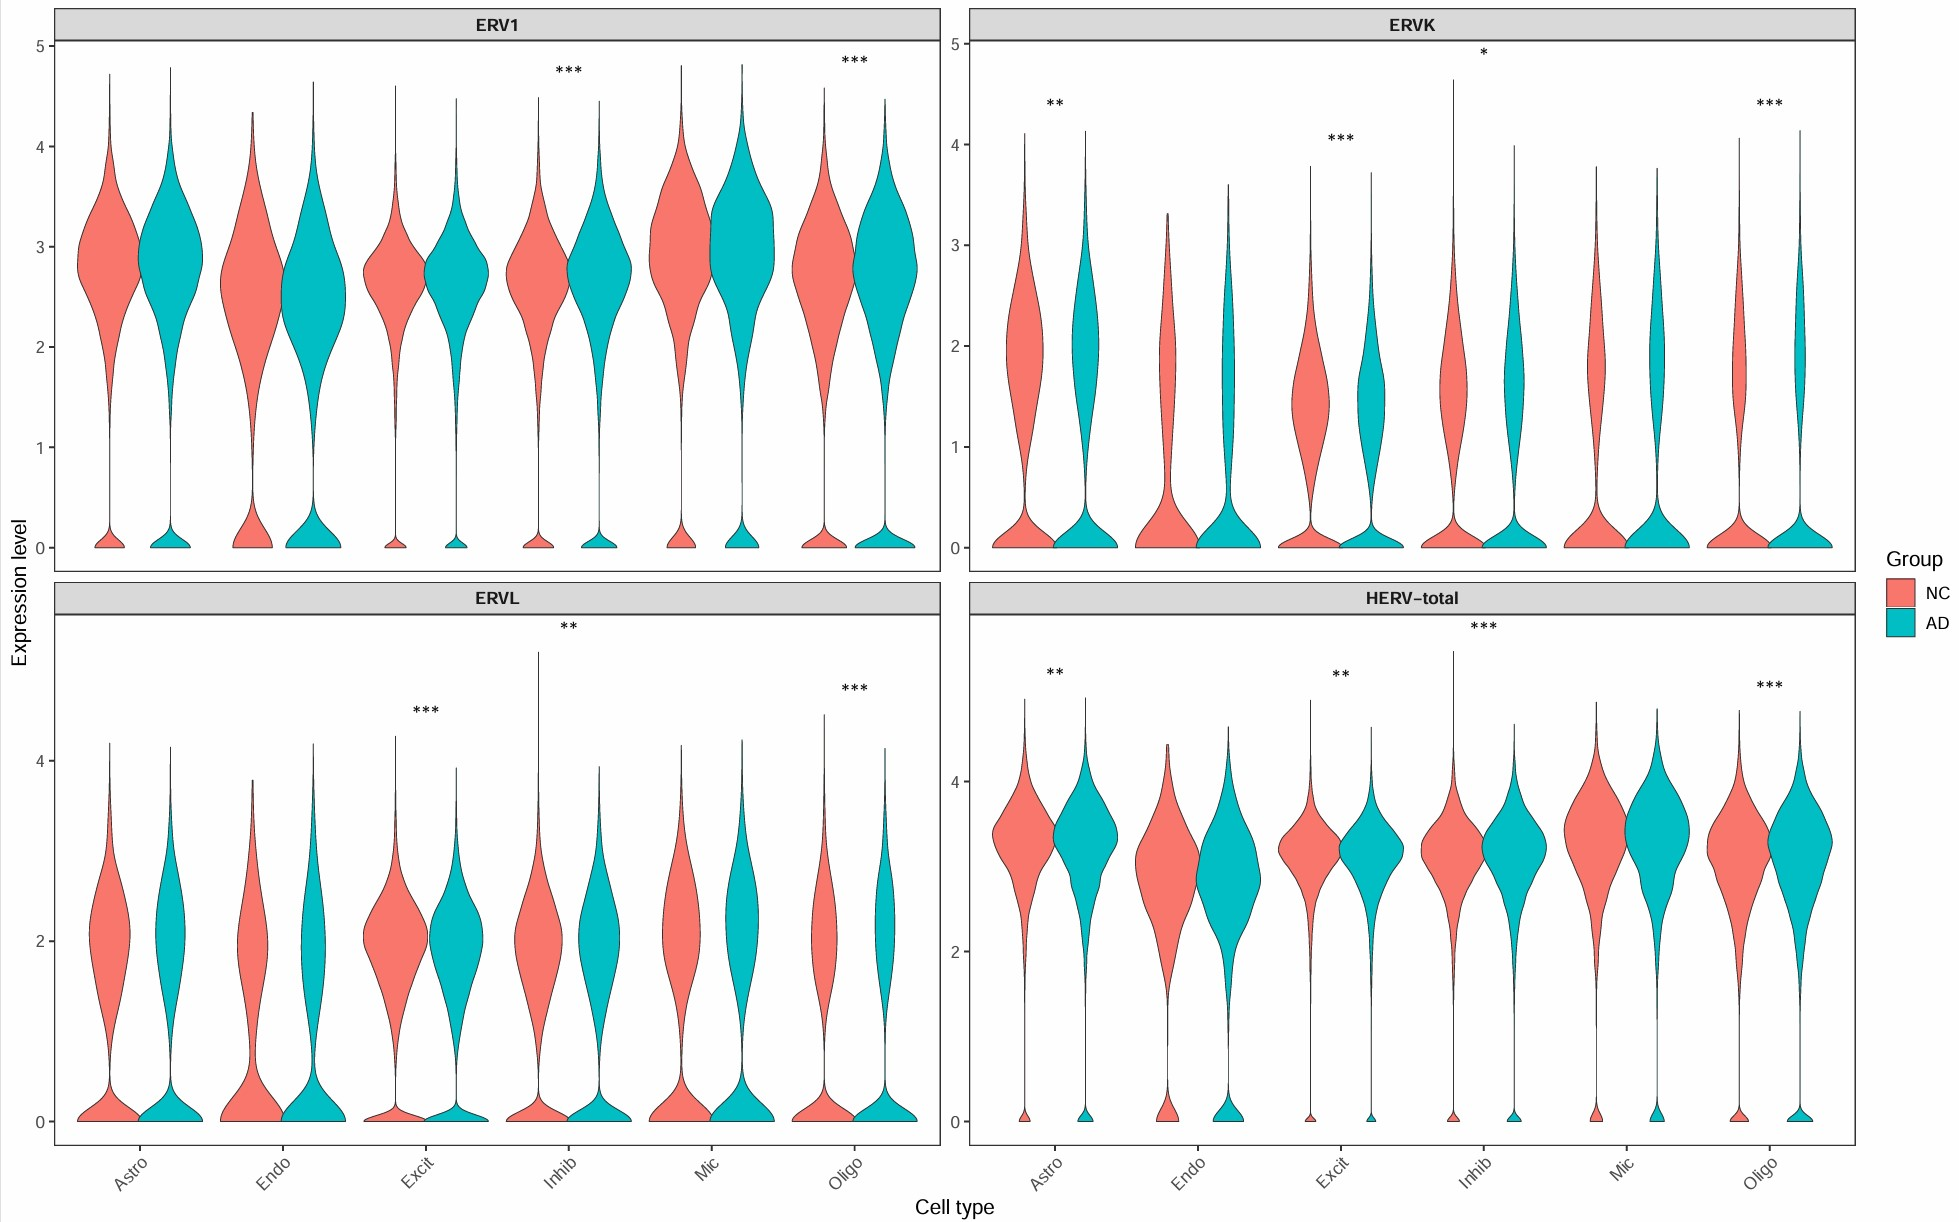
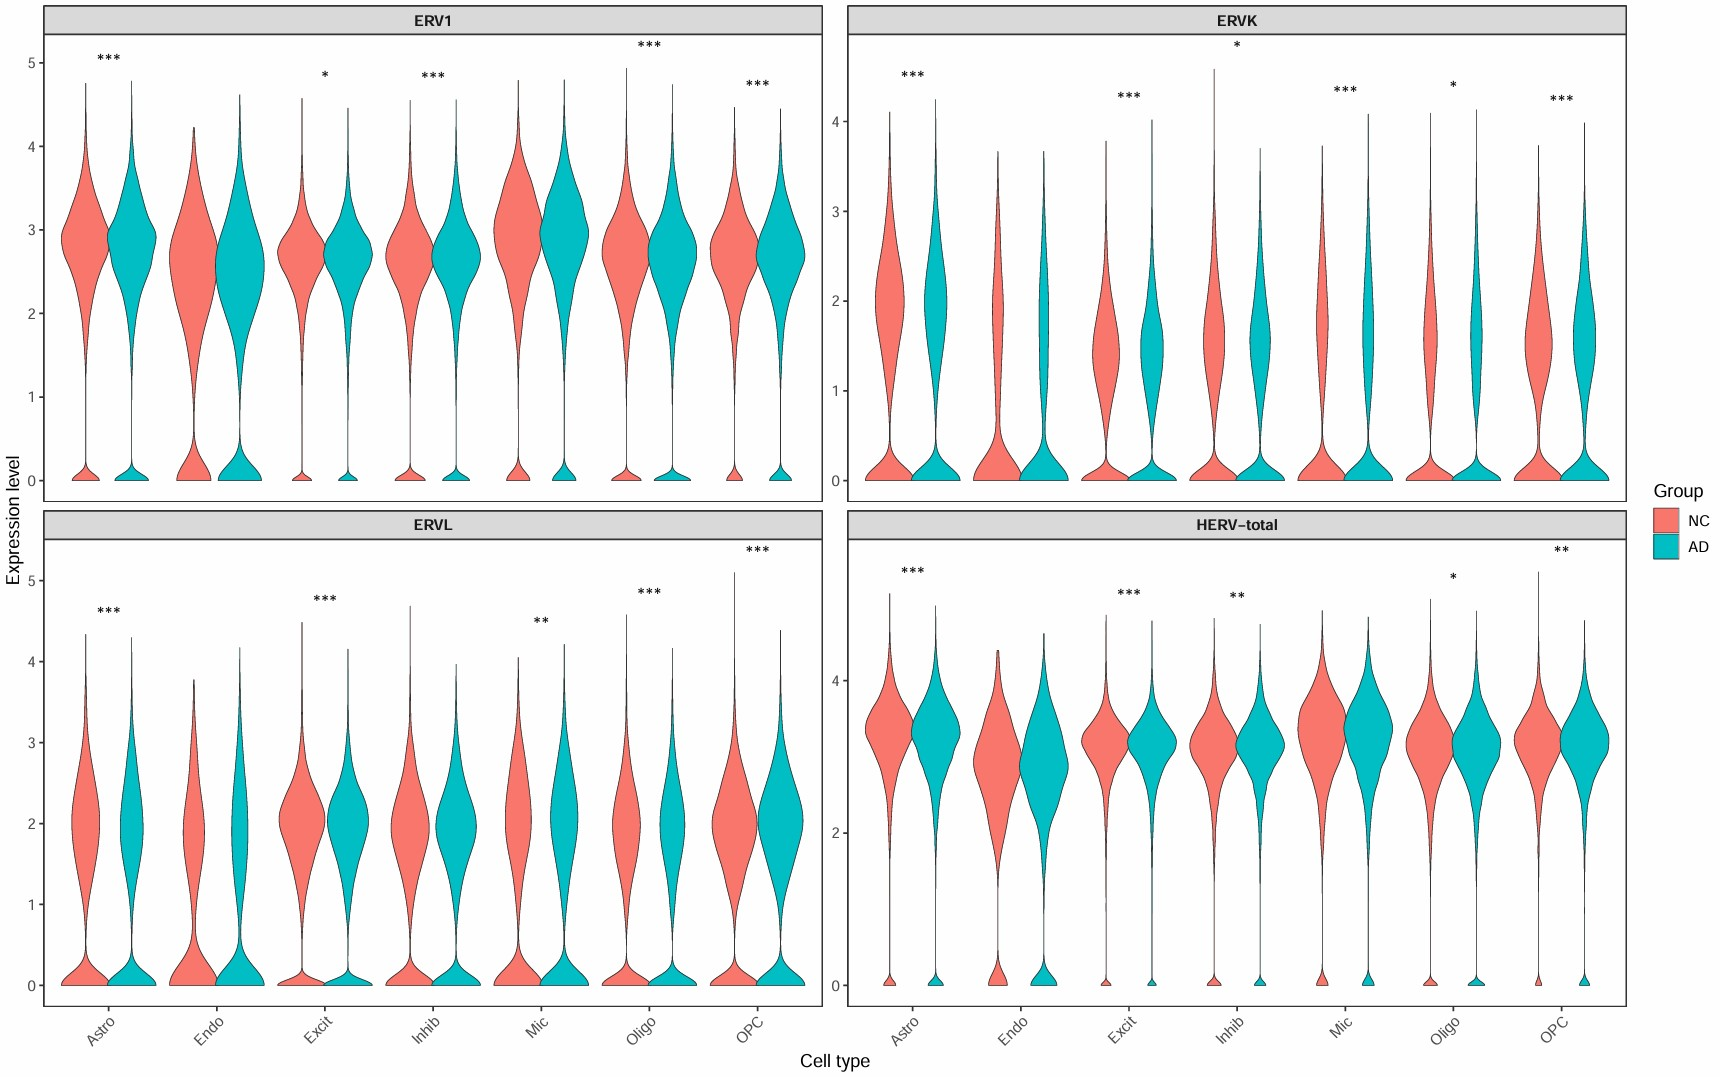
0323

Changed region(s): [[0.0, 0.0, 1.0, 0.9805], [0.4622, 0.9805, 0.5238, 1.0], [0.0, 0.5822, 0.0308, 0.6435]]

diff --git a/_posts/2022-11-29-毕设代码.md b/_posts/2022-11-29-毕设代码.md
@@ -1320,7 +1320,7 @@ meta <- seu@meta.data %>%
   transmute(
     cell = rownames(seu@meta.data),
     group = factor(group, levels = c("NC","AD")),
-    celltype = factor(celltype, levels = c("Astro","Endo","Excit","Inhib","Mic","Oligo"))
+    celltype = factor(celltype, levels = c("Astro","Endo","Excit","Inhib","Mic","Oligo","OPC"))
   )
 df_expr <- as.data.frame(as.matrix(t(mat4))) %>%
   tibble::rownames_to_column("cell") %>%
@@ -1348,7 +1348,7 @@ res_stars <- res_by_ct %>%
 ymax_df <- df_expr %>%
   group_by(feature, celltype) %>%
   summarise(ymax = max(expr, na.rm = TRUE), .groups = "drop")
-anno_df <- res_stars %>%
+anno_df <- res_stars %>%  # 注：此处若报错，可能需要更换更高版本R
   inner_join(ymax_df, by = c("feature","celltype")) %>%
   mutate(y = ymax + 0.15)
 cols <- c("NC" = "#F8766D", "AD" = "#00BFC4")
@@ -1414,7 +1414,7 @@ run_de_one_celltype <- function(seu, ct) {
     relocate(celltype, n_NC, n_AD, subfamily)
   res
 }
-celltypes_to_run <- c("Excit", "Oligo", "Astro", "Inhib", "All")
+celltypes_to_run <- c("Excit", "Oligo", "Astro", "Inhib", "Endo", "Mic", "OPC", "All")
 res_list <- lapply(celltypes_to_run, function(ct) run_de_one_celltype(seu, ct))
 res_list <- Filter(Negate(is.null), res_list)
 res_subfamily <- bind_rows(res_list)
@@ -1446,7 +1446,7 @@ get_subCelltype <- function(ct, pc.use=1:30, harmony=F, resolution=0.3){
   if(harmony){
     sub <- RunHarmony(
       object = sub,
-      group.by.vars = "orig.ident",
+      group.by.vars = "sample_uid",
       reduction.use = "pca",
       dims.use = pc.use,
       assay.use = "RNA",
@@ -1458,8 +1458,8 @@ get_subCelltype <- function(ct, pc.use=1:30, harmony=F, resolution=0.3){
     sub <- FindNeighbors(sub, dims = pc.use)
   }
   sub <- FindClusters(sub, resolution = c(0.01,0.05,0.1,0.2,0.3,0.4,0.5))
-  pdf(file.path(res_dir, paste0(ct, "_umap_sample_group.pdf")), width = 16, height = 8)
-  print(DimPlot(sub, group.by = "orig.ident", raster = TRUE) | DimPlot(sub, group.by = "group", raster = TRUE))
+  pdf(file.path(res_dir, paste0(ct, "_umap_sample_group.pdf")), width = 24, height = 8)
+  print(DimPlot(sub, group.by = "orig.ident", raster = TRUE) | DimPlot(sub, group.by = "dataset", raster = TRUE) | DimPlot(sub, group.by = "group", raster = TRUE))
   dev.off()
   pdf(file.path(res_dir, paste0(ct, "_clustree.pdf")), width = 12, height = 12)
   print(clustree(sub@meta.data, prefix = "RNA_snn_res."))
@@ -1471,28 +1471,46 @@ get_subCelltype <- function(ct, pc.use=1:30, harmony=F, resolution=0.3){
   dev.off()
   return(sub)
 }
-astro <- get_subCelltype("Astro", pc.use = 1:20, harmony = T, resolution = 0.2)
+astro <- get_subCelltype("Astro", pc.use = 1:25, harmony = T, resolution = 0.1)
 excit <- get_subCelltype("Excit", pc.use = 1:30, harmony = T, resolution = 0.3)
-oligo <- get_subCelltype("Oligo", pc.use = 1:20, harmony = T, resolution = 0.3)
-inhib <- get_subCelltype("Inhib", pc.use = 1:30, harmony = T, resolution = 0.3)
+oligo <- get_subCelltype("Oligo", pc.use = 1:30, harmony = T, resolution = 0.3)
+inhib <- get_subCelltype("Inhib", pc.use = 1:30, harmony = T, resolution = 0.2)
+endo <- get_subCelltype("Endo", pc.use = 1:20, harmony = T, resolution = 0.01)
+mic <- get_subCelltype("Mic", pc.use = 1:25, harmony = T, resolution = 0.3)
+OPC <- get_subCelltype("OPC", pc.use = 1:30, harmony = T, resolution = 0.4)
 saveRDS(
   astro, 
-  file = "/public/home/GENE_proc/wth/my_data/all_astro.rds", 
+  file = "/public/home/GENE_proc/wth/my_data/astro.rds", 
   compress = "xz"
 )
 saveRDS(
   excit, 
-  file = "/public/home/GENE_proc/wth/my_data/all_excit.rds", 
+  file = "/public/home/GENE_proc/wth/my_data/excit.rds", 
   compress = "xz"
 )
 saveRDS(
   oligo, 
-  file = "/public/home/GENE_proc/wth/my_data/all_oligo.rds", 
+  file = "/public/home/GENE_proc/wth/my_data/oligo.rds", 
   compress = "xz"
 )
 saveRDS(
   inhib, 
-  file = "/public/home/GENE_proc/wth/my_data/all_inhib.rds", 
+  file = "/public/home/GENE_proc/wth/my_data/inhib.rds", 
+  compress = "xz"
+)
+saveRDS(
+  endo, 
+  file = "/public/home/GENE_proc/wth/my_data/endo.rds", 
+  compress = "xz"
+)
+saveRDS(
+  mic, 
+  file = "/public/home/GENE_proc/wth/my_data/mic.rds", 
+  compress = "xz"
+)
+saveRDS(
+  OPC, 
+  file = "/public/home/GENE_proc/wth/my_data/OPC.rds", 
   compress = "xz"
 )
 ```

diff --git a/_posts/2022-11-30-毕设正文和图片.md b/_posts/2022-11-30-毕设正文和图片.md
@@ -170,8 +170,8 @@ Astro  Endo Excit Inhib   Mic Oligo   OPC
 
 ### 细胞大类中的hERV家族重调情况
 
-[预览](https://lwstkhyl.me/viewFile?fileName=hERV_family_celltype.xlsx&src=https%3A%2F%2Flwstkhyl.me%2Fapi%2Fdownload%2FGSE157827%25E6%2595%25B0%25E6%258D%25AE_new%252Fres%252FhERV_family_celltype.xlsx) \| [下载](https://lwstkhyl.me/api/download/GSE157827%E6%95%B0%E6%8D%AE_new%2Fres%2FhERV_family_celltype.xlsx)
+[预览](https://lwstkhyl.me/viewFile?fileName=hERV_family_celltype.xlsx&src=https%3A%2F%2Flwstkhyl.me%2Fapi%2Fdownload%2F%25E6%25AF%2595%25E8%25AE%25BE%25E6%2595%25B0%25E6%258D%25AE%252Fres%252FhERV_DE%252FhERV_family_celltype.xlsx) \| [下载](https://lwstkhyl.me/api/download/%E6%AF%95%E8%AE%BE%E6%95%B0%E6%8D%AE%2Fres%2FhERV_DE%2FhERV_family_celltype.xlsx)
 
 ### 细胞亚群中的hERV家族重调情况
 
-研究对象主要是`Excit`/`Inhib`/`Oligo`/`Astro`
+
